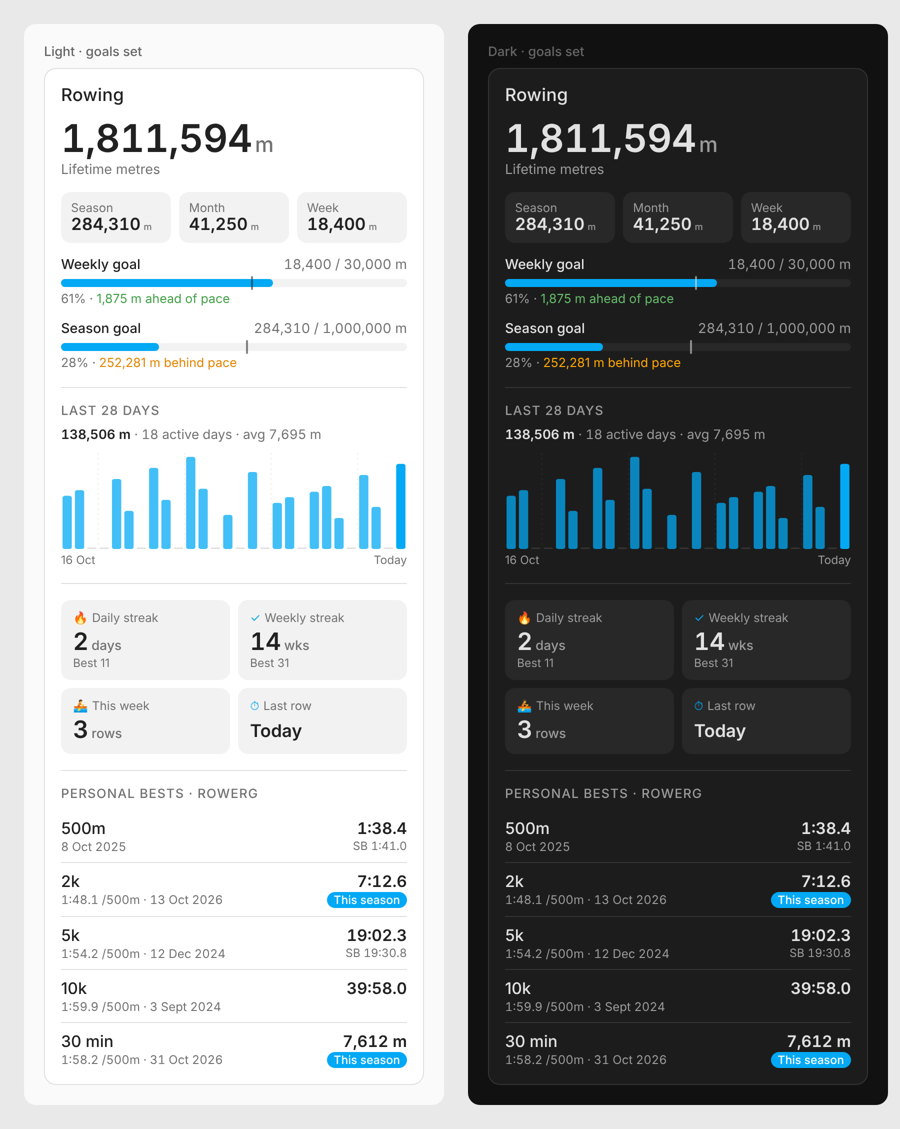
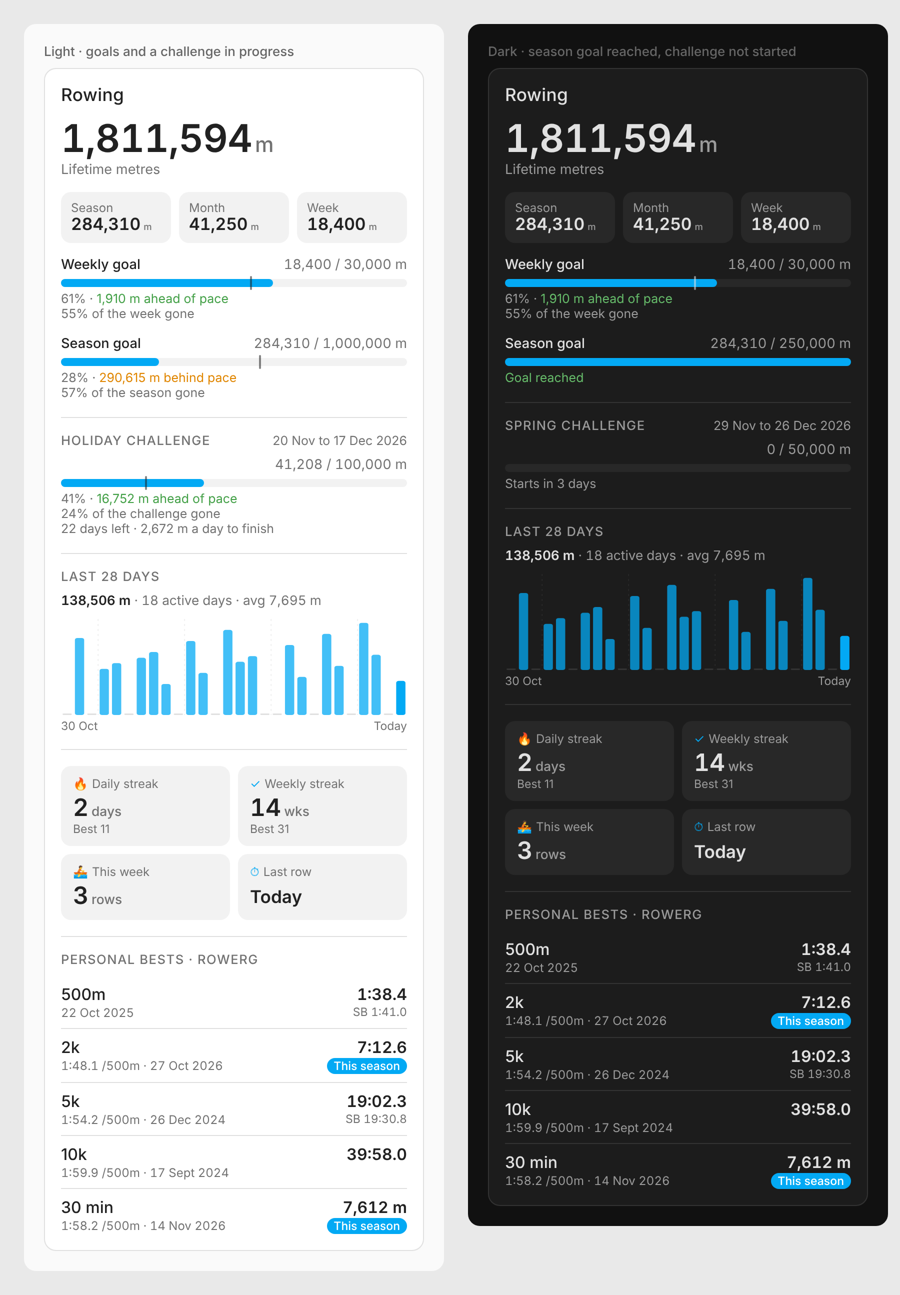
Add challenge goal to the card and clarify the pace marker
The card gets an optional challenge: a start date, end date and target
(plus an optional name). When all three are set it shows metres logged
between the dates from the long-term statistics, pace, days left and
metres a day needed. It counts every machine and includes both dates.

The goal bars' tick marks where an even pace would put you today, not
how far you've got, which read as a wrong progress marker on the season
bar. The status line now says how much of the period has gone, and the
tick is hidden once the goal is reached or outside the period.

Claude-Session: https://claude.ai/code/session_01TGNn4qfXph9mTusgQkUjs3

diff --git a/custom_components/concept2_logbook/frontend/concept2-logbook-card.js b/custom_components/concept2_logbook/frontend/concept2-logbook-card.js
@@ -8,7 +8,7 @@
  * Unofficial. Not made, endorsed or supported by Concept2, Inc.
  */
 
-const CARD_VERSION = "0.5.2";
+const CARD_VERSION = "0.6.0";
 const DOMAIN = "concept2_logbook";
 
 const MACHINE_NAMES = {
@@ -56,6 +56,14 @@ const seasonBounds = (now) => {
   const year = now.getMonth() >= 4 ? now.getFullYear() : now.getFullYear() - 1;
   return [new Date(year, 4, 1), new Date(year + 1, 4, 1)];
 };
+
+/** Parse "YYYY-MM-DD" as local midnight, or null. */
+const parseDay = (value) => {
+  const m = /^(\d{4})-(\d{2})-(\d{2})/.exec(String(value ?? ""));
+  return m ? new Date(Number(m[1]), Number(m[2]) - 1, Number(m[3])) : null;
+};
+
+const DAY_MS = 24 * 60 * 60 * 1000;
 
 const weekBounds = (now) => {
   const start = startOfDay(now);
@@ -106,6 +114,8 @@ class Concept2LogbookCard extends HTMLElement {
     this._stats = null; // { days: [{date, value}], error }
     this._statsKey = null;
     this._statsFetchedAt = 0;
+    this._challenge = null; // { total, error }
+    this._challengeKey = null;
     this._hoverIndex = null;
   }
 
@@ -126,6 +136,7 @@ class Concept2LogbookCard extends HTMLElement {
       this._render();
     }
     this._maybeFetchStats();
+    this._maybeFetchChallenge();
   }
 
   getCardSize() {
@@ -210,6 +221,56 @@ class Concept2LogbookCard extends HTMLElement {
     }
   }
 
+  /** The challenge window and target, or null unless start, end and target are all set. */
+  _challengeConfig() {
+    const c = this._config;
+    const start = parseDay(c.challenge_start);
+    const endDay = parseDay(c.challenge_end);
+    const goal = num(c.challenge_goal);
+    if (!start || !endDay || !(goal > 0) || endDay < start) return null;
+    const end = new Date(endDay);
+    end.setDate(end.getDate() + 1); // the end date counts in full
+    return { name: c.challenge_name || "Challenge", start, endDay, end, goal };
+  }
+
+  async _maybeFetchChallenge() {
+    const ch = this._challengeConfig();
+    if (!this._hass || !ch) return;
+    const lifetime = this._state("lifetime_distance");
+    const statId = lifetime?.attributes?.statistic_id;
+    if (!statId) return;
+    if (new Date() < ch.start) {
+      if (this._challengeKey !== "not-started") {
+        this._challengeKey = "not-started";
+        this._challenge = { total: 0 };
+        this._render();
+      }
+      return;
+    }
+    // Refetch when the window changes or a new workout changes the lifetime total.
+    const key = `${statId}|${dayKey(ch.start)}|${dayKey(ch.end)}|${lifetime.state}`;
+    if (key === this._challengeKey || this._fetchingChallenge) return;
+    this._fetchingChallenge = true;
+    this._challengeKey = key;
+    try {
+      const result = await this._hass.callWS({
+        type: "recorder/statistics_during_period",
+        start_time: ch.start.toISOString(),
+        end_time: ch.end.toISOString(),
+        statistic_ids: [statId],
+        period: "day",
+        types: ["change"],
+      });
+      const total = (result?.[statId] || []).reduce((sum, row) => sum + Math.max(0, num(row.change) || 0), 0);
+      this._challenge = { total };
+    } catch (err) {
+      this._challenge = { total: null, error: err?.message || String(err) };
+    } finally {
+      this._fetchingChallenge = false;
+      this._render();
+    }
+  }
+
   _render() {
     if (!this._config || !this._hass) return;
     this._entities = findEntities(this._hass, this._config.device_id);
@@ -221,6 +282,7 @@ class Concept2LogbookCard extends HTMLElement {
     } else {
       body = [
         c.show_totals ? this._renderTotals() : "",
+        this._renderChallenge(),
         c.show_chart ? this._renderChart() : "",
         c.show_streaks ? this._renderStreaks() : "",
         c.show_pbs ? this._renderPbs() : "",
@@ -260,10 +322,10 @@ class Concept2LogbookCard extends HTMLElement {
 
     const goals = [];
     if (num(c.weekly_goal) > 0) {
-      goals.push(this._goalBar("Weekly goal", this._value("week_distance"), num(c.weekly_goal), weekBounds(now), now));
+      goals.push(this._goalBar("Weekly goal", this._value("week_distance"), num(c.weekly_goal), weekBounds(now), now, "week"));
     }
     if (num(c.season_goal) > 0) {
-      goals.push(this._goalBar("Season goal", this._value("season_distance"), num(c.season_goal), seasonBounds(now), now));
+      goals.push(this._goalBar("Season goal", this._value("season_distance"), num(c.season_goal), seasonBounds(now), now, "season"));
     }
 
     return `
@@ -277,28 +339,83 @@ class Concept2LogbookCard extends HTMLElement {
       </section>`;
   }
 
-  _goalBar(label, value, goal, [start, end], now) {
+  /**
+   * A goal bar with an even-pace marker.
+   * periodName names the window in the status line ("week", "season", ...).
+   * extra is appended to the status line while the goal is in progress.
+   */
+  _goalBar(label, value, goal, [start, end], now, periodName, extra = "") {
     const done = value || 0;
     const pct = Math.min(100, (done / goal) * 100);
     const elapsed = Math.min(1, Math.max(0, (now - start) / (end - start)));
-    const expected = goal * elapsed;
-    const diff = done - expected;
-    let pace;
-    if (done >= goal) pace = `<span class="good">Goal reached</span>`;
-    else if (diff >= 0) pace = `<span class="good">${this._fmt(diff)} m ahead of pace</span>`;
-    else pace = `<span class="behind">${this._fmt(-diff)} m behind pace</span>`;
+    const reached = done >= goal;
+    const notStarted = now < start;
+    const over = now >= end;
+    const diff = done - goal * elapsed;
+
+    let status;
+    if (reached) status = `<span class="good">Goal reached</span>`;
+    else if (notStarted) status = `Starts in ${this._days(Math.ceil((start - now) / DAY_MS))}`;
+    else if (over) status = `<span class="behind">Finished at ${Math.round(pct)}%</span>`;
+    else {
+      const pace =
+        diff >= 0
+          ? `<span class="good">${this._fmt(diff)} m ahead of pace</span>`
+          : `<span class="behind">${this._fmt(-diff)} m behind pace</span>`;
+      status = `${Math.round(pct)}% · ${pace}<br>${Math.round(elapsed * 100)}% of the ${periodName} gone${extra}`;
+    }
+    // The marker shows where an even pace would put you today, so it only
+    // means something while the goal is still being worked towards.
+    const marker =
+      !reached && !notStarted && !over
+        ? `<div class="bar-marker" style="left:${(elapsed * 100).toFixed(1)}%" title="Where you'd be today at an even pace"></div>`
+        : "";
     return `
       <div class="goal">
         <div class="goal-row">
-          <span class="goal-label">${label}</span>
+          <span class="goal-label">${esc(label)}</span>
           <span class="goal-numbers">${this._fmt(done)} / ${this._fmt(goal)} m</span>
         </div>
         <div class="bar" role="progressbar" aria-valuemin="0" aria-valuemax="${goal}" aria-valuenow="${done}" aria-label="${esc(label)}">
           <div class="bar-fill" style="width:${pct.toFixed(1)}%"></div>
-          <div class="bar-marker" style="left:${(elapsed * 100).toFixed(1)}%" title="Where you'd be at an even pace"></div>
+          ${marker}
         </div>
-        <div class="goal-pace">${Math.round(pct)}% · ${pace}</div>
+        <div class="goal-pace">${status}</div>
       </div>`;
+  }
+
+  _days(n) {
+    return `${this._fmt(n)} day${n === 1 ? "" : "s"}`;
+  }
+
+  _renderChallenge() {
+    const ch = this._challengeConfig();
+    if (!ch) return "";
+    const short = { day: "numeric", month: "short" };
+    const range = `${this._fmtDate(ch.start, short)} to ${this._fmtDate(ch.endDay, { ...short, year: "numeric" })}`;
+    let body;
+    if (!this._challenge) body = `<div class="chart-placeholder">Loading…</div>`;
+    else if (this._challenge.error) {
+      body = `<div class="chart-placeholder">Couldn't load challenge progress: ${esc(this._challenge.error)}</div>`;
+    } else {
+      const now = new Date();
+      const done = this._challenge.total;
+      let extra = "";
+      if (now >= ch.start && now < ch.end && done < ch.goal) {
+        // Days left including today.
+        const daysLeft = Math.max(1, Math.ceil((ch.end - startOfDay(now)) / DAY_MS));
+        extra = `<br>${this._days(daysLeft)} left · ${this._fmt((ch.goal - done) / daysLeft)} m a day to finish`;
+      }
+      body = this._goalBar(ch.name, done, ch.goal, [ch.start, ch.end], now, "challenge", extra);
+    }
+    return `
+      <section class="challenge">
+        <div class="challenge-head">
+          <div class="section-title">${esc(ch.name)}</div>
+          <div class="challenge-dates">${esc(range)}</div>
+        </div>
+        ${body}
+      </section>`;
   }
 
   _renderChart() {
@@ -498,6 +615,11 @@ const STYLES = `
   .bar-fill { height: 100%; border-radius: 4px; background: var(--primary-color); transition: width 0.4s ease; }
   .bar-marker { position: absolute; top: -3px; width: 2px; height: 14px; margin-left: -1px; border-radius: 1px; background: var(--primary-text-color); opacity: 0.55; }
   .goal-pace { font-size: 0.78rem; color: var(--secondary-text-color); margin-top: 5px; }
+  .challenge-head { display: flex; justify-content: space-between; align-items: baseline; gap: 8px; flex-wrap: wrap; }
+  .challenge-dates { font-size: 0.78rem; color: var(--secondary-text-color); }
+  .challenge .goal { margin-top: 8px; }
+  .challenge .goal-label { display: none; }
+  .challenge .goal-row { justify-content: flex-end; }
   .good { color: var(--success-color, #43a047); }
   .behind { color: var(--warning-color, #ffa600); }
 
@@ -543,6 +665,10 @@ const EDITOR_LABELS = {
   weekly_goal: "Weekly goal (metres, optional)",
   season_goal: "Season goal (metres, optional)",
   chart_days: "Days in activity chart",
+  challenge_name: "Challenge name (optional)",
+  challenge_start: "Challenge start date",
+  challenge_end: "Challenge end date",
+  challenge_goal: "Challenge target (metres)",
   show_totals: "Show totals and goals",
   show_chart: "Show activity chart",
   show_streaks: "Show streaks",
@@ -573,6 +699,17 @@ class Concept2LogbookCardEditor extends HTMLElement {
       ...(options.length > 1 ? [{ name: "machine", selector: { select: { options, mode: "dropdown" } } }] : []),
       { name: "weekly_goal", selector: { number: { min: 0, step: 1000, mode: "box", unit_of_measurement: "m" } } },
       { name: "season_goal", selector: { number: { min: 0, step: 10000, mode: "box", unit_of_measurement: "m" } } },
+      {
+        type: "expandable",
+        name: "",
+        title: "Challenge (shows when start, end and target are all set)",
+        schema: [
+          { name: "challenge_name", selector: { text: {} } },
+          { name: "challenge_start", selector: { date: {} } },
+          { name: "challenge_end", selector: { date: {} } },
+          { name: "challenge_goal", selector: { number: { min: 0, step: 1000, mode: "box", unit_of_measurement: "m" } } },
+        ],
+      },
       { name: "chart_days", selector: { number: { min: 7, max: 90, step: 1, mode: "slider" } } },
       { name: "show_totals", selector: { boolean: {} } },
       { name: "show_chart", selector: { boolean: {} } },
@@ -588,7 +725,10 @@ class Concept2LogbookCardEditor extends HTMLElement {
       this._form.computeLabel = (s) => EDITOR_LABELS[s.name] || s.name;
       this._form.addEventListener("value-changed", (ev) => {
         const config = { ...ev.detail.value };
-        for (const k of ["weekly_goal", "season_goal"]) {
+        for (const k of ["challenge_name", "challenge_start", "challenge_end"]) {
+          if (!config[k]) delete config[k];
+        }
+        for (const k of ["weekly_goal", "season_goal", "challenge_goal"]) {
           if (config[k] === "" || config[k] === null || config[k] === 0) delete config[k];
         }
         this._config = config;

diff --git a/dev/card-preview.html b/dev/card-preview.html
@@ -79,8 +79,9 @@
   // Mock daily history: mostly rowing 4 to 5 days a week, with today's row.
   const callWS = async (msg) => {
     const start = new Date(msg.start_time);
+    const stop = msg.end_time ? new Date(Math.min(now, new Date(msg.end_time))) : now;
     const rows = [];
-    for (let d = new Date(start); d <= now; d.setDate(d.getDate() + 1)) {
+    for (let d = new Date(start); d < stop; d.setDate(d.getDate() + 1)) {
       const dow = d.getDay(), seed = (d.getDate() * 37 + d.getMonth() * 11) % 100;
       if ((dow === 0 || dow === 3) && seed < 70) continue;
       if (seed < 18) continue;
@@ -90,9 +91,12 @@
   };
   const hass = { states, entities, callWS, locale: { language: "en-GB" } };
 
+  const day = (offset) => { const d = new Date(now); d.setDate(d.getDate() + offset); return d.toISOString().slice(0, 10); };
   const variants = [
-    ["Light · goals set", "light", "", { weekly_goal: 30000, season_goal: 1000000 }],
-    ["Dark · goals set", "dark", "", { weekly_goal: 30000, season_goal: 1000000 }],
+    ["Light · goals and a challenge in progress", "light", "",
+      { weekly_goal: 30000, season_goal: 1000000, challenge_name: "Holiday Challenge", challenge_start: day(-6), challenge_end: day(21), challenge_goal: 100000 }],
+    ["Dark · season goal reached, challenge not started", "dark", "",
+      { weekly_goal: 30000, season_goal: 250000, challenge_name: "Spring Challenge", challenge_start: day(3), challenge_end: day(30), challenge_goal: 50000 }],
     ["Light · no goals, 14 days, wide", "light", "wide", { chart_days: 14 }],
   ];
   const root = document.getElementById("root");

diff --git a/README.md b/README.md
@@ -46,7 +46,8 @@ The integration includes a dashboard card that loads automatically, so there's n
 It shows, in one card:
 
 - **Totals:** lifetime metres plus season, month and week.
-- **Goals:** optional weekly and season targets with a progress bar. The tick on each bar marks where you'd be at an even pace, and the line underneath says how far ahead or behind that you are.
+- **Goals:** optional weekly and season targets with a progress bar. The blue fill is how far you've got. The thin tick marks where you'd be today at an even pace, which is why it sits about halfway along the season bar in November. The lines underneath say how far ahead or behind that you are and how much of the period has gone. The tick disappears once you reach the goal.
+- **Challenge:** an optional bar for a fixed-date challenge, such as Concept2's Holiday Challenge. Set a start date, end date and target in metres (and a name if you like), and it shows your metres between those dates, how far ahead or behind pace you are, the days left and the metres a day needed to finish. It only appears when the start date, end date and target are all set. It counts every machine, and both dates are included.
 - **Activity:** metres per day for the last 7 to 90 days, taken from the full-history statistics. Hover or tap a bar to see that day.
 - **Streaks:** daily and weekly streaks with your bests, workouts this week, and when you last trained.
 - **Personal bests:** for one machine, with pace, date, and either a "This season" badge or your season best.
@@ -58,6 +59,10 @@ type: custom:concept2-logbook-card
 title: Rowing
 weekly_goal: 30000      # metres, optional
 season_goal: 1000000    # metres, optional
+challenge_name: Holiday Challenge   # optional
+challenge_start: "2026-11-26"       # the challenge shows when start, end and goal are all set
+challenge_end: "2026-12-24"
+challenge_goal: 100000              # metres
 chart_days: 28          # 7 to 90
 machine: rower          # which machine's PBs to show; defaults to the one with most PBs
 show_totals: true
